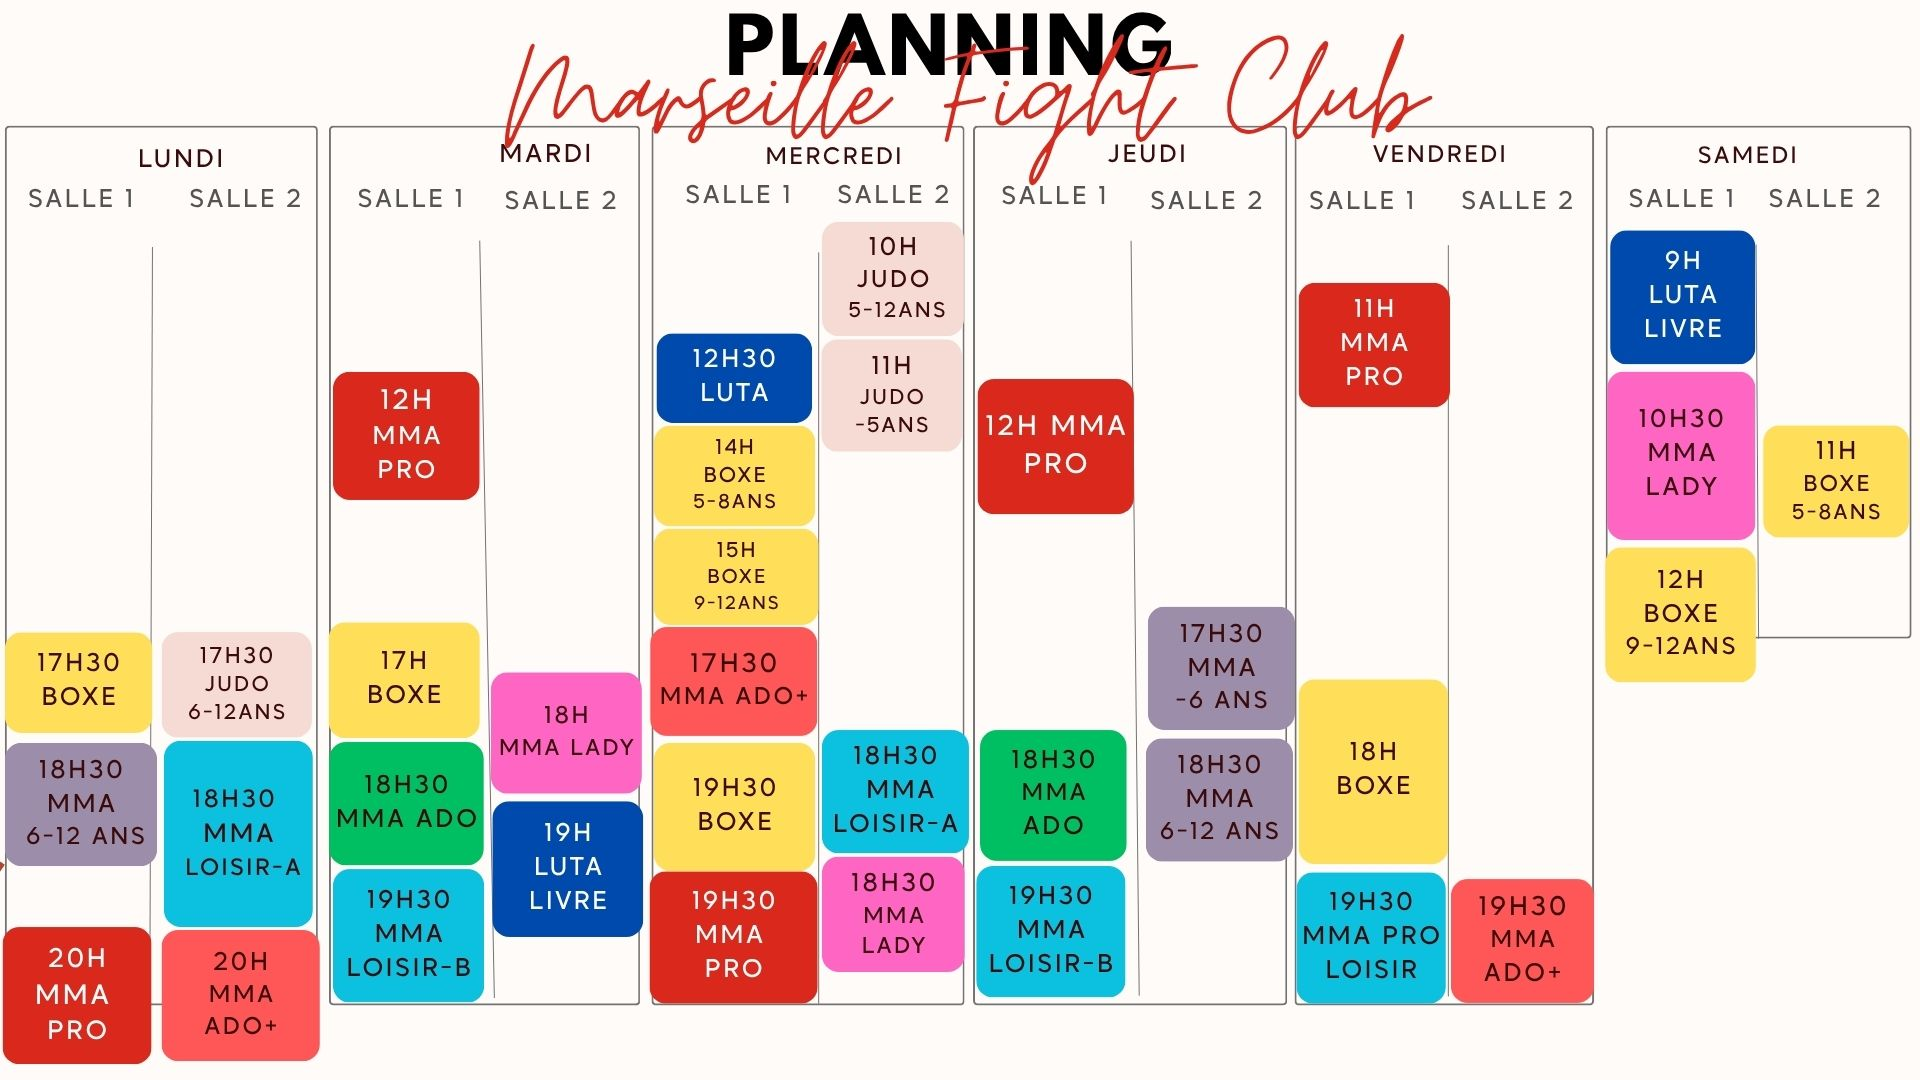
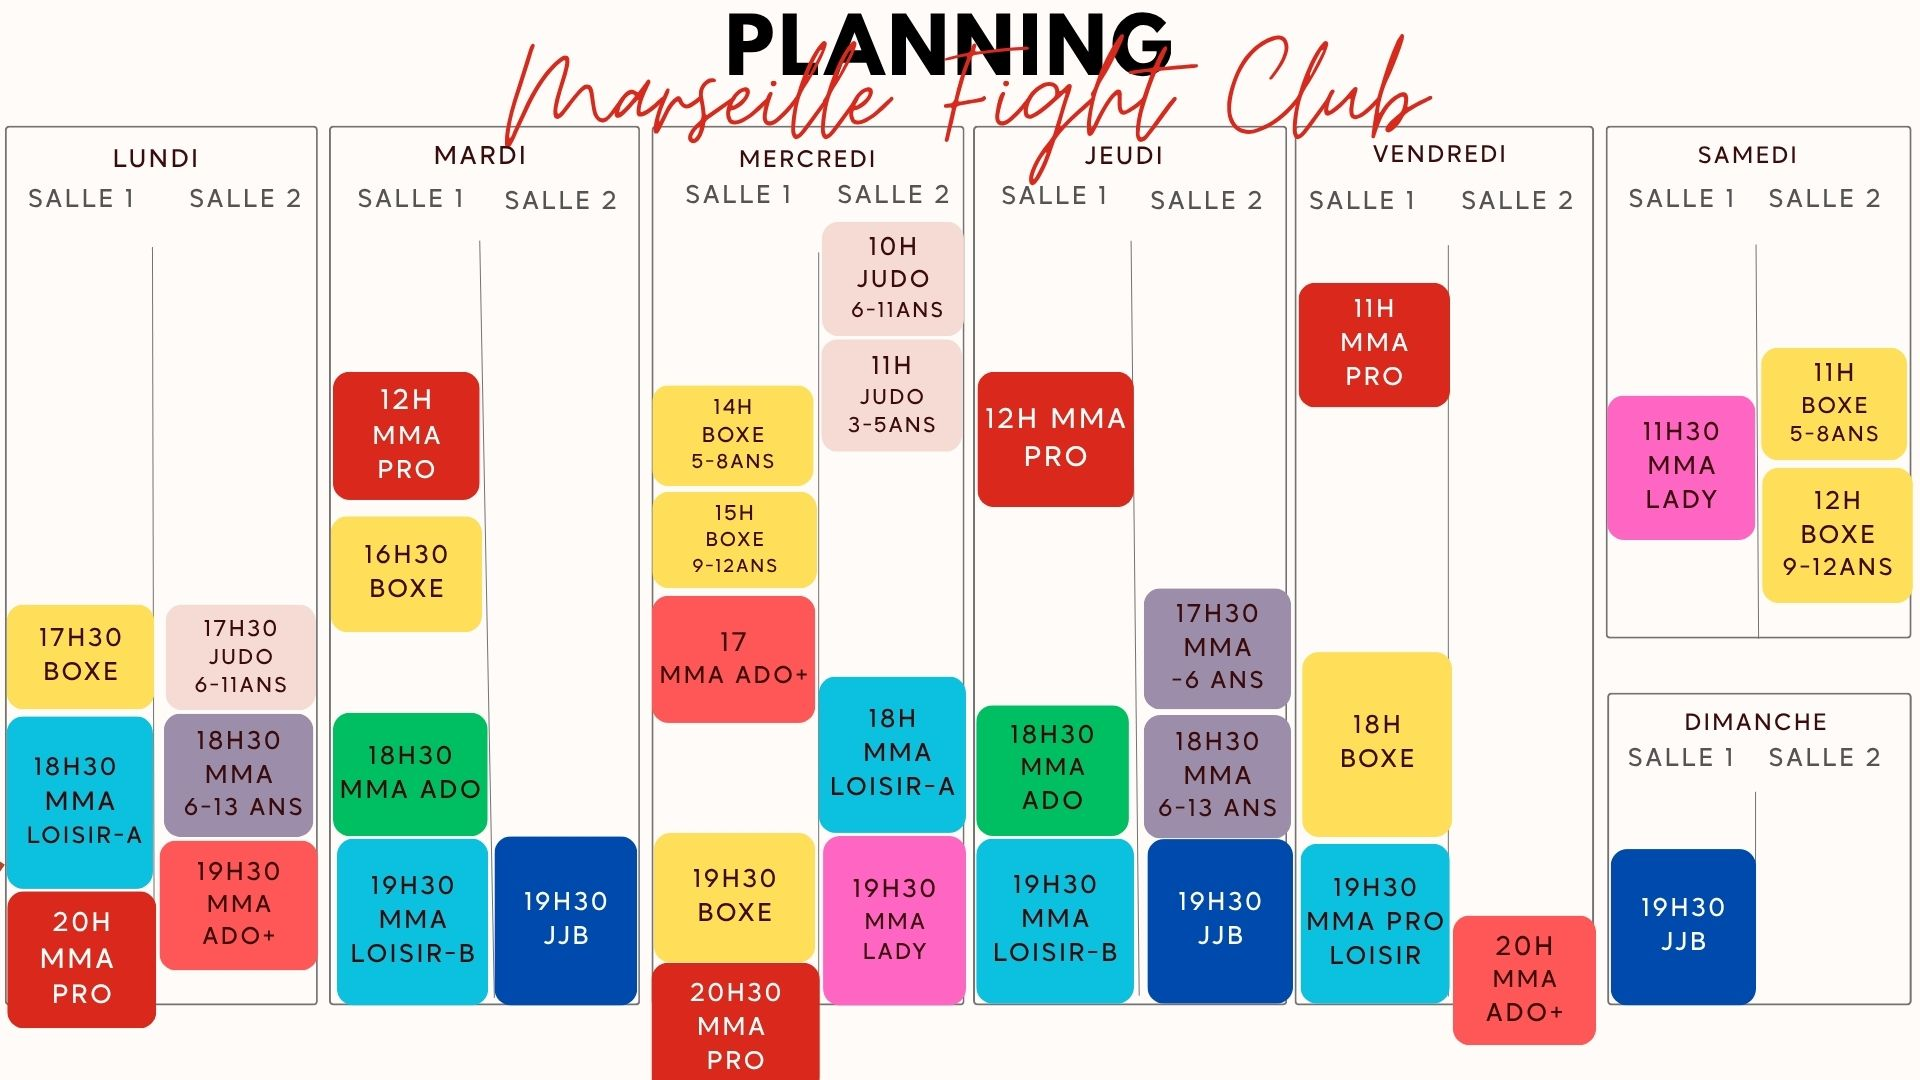
Update planning image and add phone numbers

diff --git a/src/components/Pricing.tsx b/src/components/Pricing.tsx
@@ -79,7 +79,8 @@ const sections: Section[] = [
           "Mardi : 19h30 – 21h00",
           "Jeudi : 19h30 – 21h00",
           "Dimanche : 19h30 – 21h00"
-        ]
+        ],
+        tel: "06 61 67 91 09"
       },
       {
         name: "100% FILLES",
@@ -88,7 +89,8 @@ const sections: Section[] = [
         schedule: [
           "Mercredi : 19h30 – 21h00",
           "Samedi : 11h30 – 13h00"
-        ]
+        ],
+        tel: "06 43 40 76 45"
       },
       {
         name: "BOXE",
@@ -102,16 +104,13 @@ const sections: Section[] = [
         tel: "07 83 67 54 75"
       },
       {
-        name: "STRIKING",
-        tel: "06 14 95 88 49",
-        strikingOptions: [
-          { name: "Striking MMA (2J/S)", price: "390 €" },
-          { name: "Striking MMA (4J/S)", price: "490 €" },
-          { name: "Lady Striking", price: "390 €" },
-          { name: "Boxe Thaï", price: "290 €" },
-          { name: "Pieds Poings", price: "290 €" },
-          { name: "Striking Ados", price: "290 €" }
-        ]
+        name: "KICK",
+        price: "350 €",
+        schedule: [
+          "Mardi : 18h00 – 19h30",
+          "Vendredi : 18h00 – 19h30"
+        ],
+        tel: "06 14 95 88 49"
       }
     ]
   },
@@ -142,11 +141,6 @@ const sections: Section[] = [
           "Vendredi : 20h00 – 21h00"
         ],
         tel: "06 43 40 76 45"
-      },
-      {
-        name: "KICK ADOS",
-        price: "290 €",
-        tel: "06 14 95 88 49"
       }
     ]
   },

diff --git a/src/app/planning/page.tsx b/src/app/planning/page.tsx
@@ -14,7 +14,7 @@ export default function PlanningPage() {
     setDone(false);
 
     try {
-      const response = await fetch("/images/planning.jpg");
+      const response = await fetch("/images/planning.jpg?v=2");
       const blob = await response.blob();
       const url = URL.createObjectURL(blob);
       const link = document.createElement("a");
@@ -93,12 +93,12 @@ export default function PlanningPage() {
         <div className="relative w-full max-w-5xl mx-auto border-4 border-mfc-gray/50 rounded-2xl overflow-hidden shadow-2xl bg-black">
           {/* Desktop: click to download */}
           <a 
-            href="/images/planning.jpg" 
+            href="/images/planning.jpg?v=2" 
             download="Planning_MFC.jpg" 
             className="hidden md:block relative w-full cursor-pointer group"
           >
              <Image 
-                src="/images/planning.jpg" 
+                src="/images/planning.jpg?v=2" 
                 alt="Planning Marseille Fight Club" 
                 width={1200}
                 height={800}
@@ -111,7 +111,7 @@ export default function PlanningPage() {
           <div className="md:hidden relative w-full">
             {/* eslint-disable-next-line @next/next/no-img-element */}
             <img 
-              src="/images/planning.jpg" 
+              src="/images/planning.jpg?v=2" 
               alt="Planning Marseille Fight Club" 
               className="w-full h-auto object-contain"
             />
